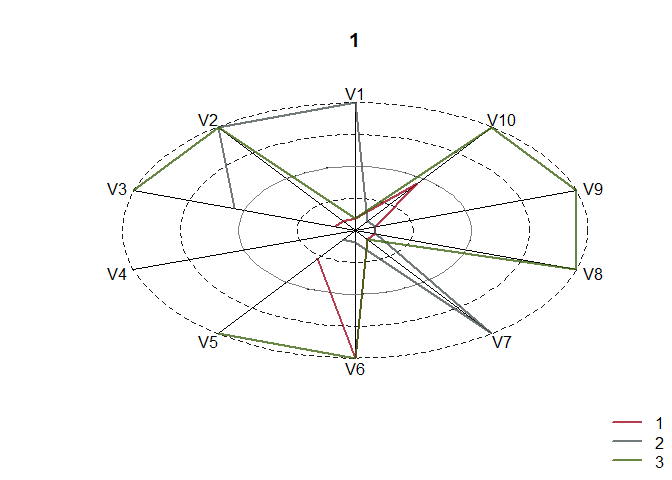
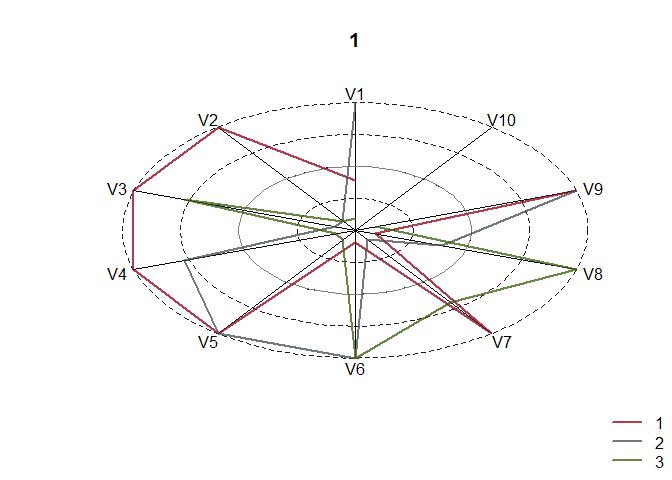
..

diff --git a/README.md b/README.md
@@ -1,4 +1,4 @@
-Vignette for R.O.S.P.O library
+The R.O.S.P.O library
 ================
 Livio Finos and the others of Rospo
 11 febbraio 2019
@@ -71,6 +71,7 @@ pc.biplot(sv,obs.opt = list(col=rep(1:2,5)))
 ### Plot partial effects in a model
 
 ``` r
+set.seed(1)
 n=100
 X=matrix(rnorm(n*3),n,3)
 X[,2]=sign(X[,2])
@@ -88,22 +89,22 @@ summary(mod)
     ## lm(formula = y ~ X1 * X2 + X3, data = D)
     ## 
     ## Residuals:
-    ##     Min      1Q  Median      3Q     Max 
-    ## -2.6937 -0.6751 -0.1059  0.5979  3.1567 
+    ##      Min       1Q   Median       3Q      Max 
+    ## -2.35147 -0.54510 -0.06024  0.70062  1.88451 
     ## 
     ## Coefficients:
     ##             Estimate Std. Error t value Pr(>|t|)    
-    ## (Intercept) -0.12594    0.10704  -1.177    0.242    
-    ## X1           1.00323    0.10349   9.694 7.45e-16 ***
-    ## X2           0.09518    0.10567   0.901    0.370    
-    ## X3           0.06983    0.09209   0.758    0.450    
-    ## X1:X2        0.92947    0.10261   9.059 1.70e-14 ***
+    ## (Intercept)  0.09565    0.10048   0.952    0.344    
+    ## X1           0.86927    0.11196   7.764 9.41e-12 ***
+    ## X2          -0.05308    0.10039  -0.529    0.598    
+    ## X3           0.07689    0.09288   0.828    0.410    
+    ## X1:X2        0.64920    0.11254   5.769 9.94e-08 ***
     ## ---
     ## Signif. codes:  0 '***' 0.001 '**' 0.01 '*' 0.05 '.' 0.1 ' ' 1
     ## 
-    ## Residual standard error: 1.051 on 95 degrees of freedom
-    ## Multiple R-squared:  0.6481, Adjusted R-squared:  0.6332 
-    ## F-statistic: 43.73 on 4 and 95 DF,  p-value: < 2.2e-16
+    ## Residual standard error: 0.9507 on 95 degrees of freedom
+    ## Multiple R-squared:  0.4509, Adjusted R-squared:  0.4278 
+    ## F-statistic:  19.5 on 4 and 95 DF,  p-value: 9.622e-12
 
 ``` r
 predict_funct=function(newdata) predict(mod,newdata=newdata)
@@ -113,6 +114,10 @@ plot_effects_individual(D,"X1","y",predict_funct=predict_funct,col.by = D$X2)
 ![](README_files/figure-markdown_github/unnamed-chunk-3-1.png)
 
 ``` r
+# in this case the same as:
+# plot_effects_individual(D,"X1","y",predict_funct=predict_funct,col.by = D$X2,center_effs = FALSE)
+
+
 # Regression tree model
 require(rpart)
 ```
@@ -129,17 +134,21 @@ print(mod)
     ## node), split, n, deviance, yval
     ##       * denotes terminal node
     ## 
-    ##  1) root 100 298.24770 -0.05695942  
-    ##    2) X1< -0.2617744 37  69.34738 -1.26355300  
-    ##      4) X2>=0 18  29.75494 -2.02891800 *
-    ##      5) X2< 0 19  19.05917 -0.53846970 *
-    ##    3) X1>=-0.2617744 63 143.39700  0.65167470  
-    ##      6) X2< 0 34  40.04831 -0.05305522  
-    ##       12) X1>=0.4562302 19  18.77715 -0.35551370 *
-    ##       13) X1< 0.4562302 15  17.33138  0.33005880 *
-    ##      7) X2>=0 29  66.66552  1.47791000  
-    ##       14) X1< 0.6602392 15  14.02249  0.43781790 *
-    ##       15) X1>=0.6602392 14  19.03024  2.59229400 *
+    ##  1) root 100 156.377600  0.28224150  
+    ##    2) X1< 0.5939238 71  89.131490 -0.08831340  
+    ##      4) X1< -0.6166335 20  32.211400 -0.71278680  
+    ##        8) X3< 0.4018905 12  16.658600 -1.11442200 *
+    ##        9) X3>=0.4018905 8  10.713480 -0.11033440 *
+    ##      5) X1>=-0.6166335 51  46.062190  0.15657810  
+    ##       10) X3< -0.7595947 8   8.421524 -0.36719190 *
+    ##       11) X3>=-0.7595947 43  35.037670  0.25402370  
+    ##         22) X3>=-0.3601846 36  29.166040  0.14004250  
+    ##           44) X1>=-0.03056194 19  18.381570 -0.06116896 *
+    ##           45) X1< -0.03056194 17   9.155507  0.36492590 *
+    ##         23) X3< -0.3601846 7   2.998602  0.84021300 *
+    ##    3) X1>=0.5939238 29  33.628580  1.18946200  
+    ##      6) X2< 0 14   7.265372  0.54656190 *
+    ##      7) X2>=0 15  15.175990  1.78950200 *
 
 ``` r
 printcp(mod)
@@ -150,19 +159,20 @@ printcp(mod)
     ## rpart(formula = y ~ X1 + X2 + X3, data = D, control = list(cp = 1e-04))
     ## 
     ## Variables actually used in tree construction:
-    ## [1] X1 X2
+    ## [1] X1 X2 X3
     ## 
-    ## Root node error: 298.25/100 = 2.9825
+    ## Root node error: 156.38/100 = 1.5638
     ## 
     ## n= 100 
     ## 
-    ##         CP nsplit rel error  xerror     xstd
-    ## 1 0.286686      0   1.00000 1.01747 0.165720
-    ## 2 0.122996      1   0.71331 0.81195 0.110165
-    ## 3 0.112701      2   0.59032 0.78498 0.103954
-    ## 4 0.068846      3   0.47762 0.69040 0.090570
-    ## 5 0.013210      4   0.40877 0.57559 0.073826
-    ## 6 0.000100      5   0.39556 0.60644 0.075771
+    ##         CP nsplit rel error  xerror    xstd
+    ## 1 0.214977      0   1.00000 1.02029 0.15404
+    ## 2 0.071540      1   0.78502 0.89723 0.12240
+    ## 3 0.069434      2   0.71348 0.94035 0.12114
+    ## 4 0.030946      3   0.64405 0.86327 0.12084
+    ## 5 0.017509      4   0.61310 0.86565 0.11399
+    ## 6 0.010417      6   0.57809 0.86918 0.11371
+    ## 7 0.000100      7   0.56767 0.85233 0.11296
 
 ``` r
 predict_funct=function(newdata) predict(mod,newdata=newdata)
@@ -172,14 +182,7 @@ plot_effects_individual(D,"X1","y",predict_funct=predict_funct,col.by = D$X2)
 ![](README_files/figure-markdown_github/unnamed-chunk-3-2.png)
 
 ``` r
-# compare the two:
-plot_effects_individual(D,"X3","y",predict_funct=predict_funct,center_effs = TRUE)
+plot_effects_individual(D,"X1","y",predict_funct=predict_funct,col.by = D$X2,center_effs = FALSE)
 ```
 
 ![](README_files/figure-markdown_github/unnamed-chunk-3-3.png)
-
-``` r
-plot_effects_individual(D,"X3","y",predict_funct=predict_funct,center_effs = FALSE)
-```
-
-![](README_files/figure-markdown_github/unnamed-chunk-3-4.png)
